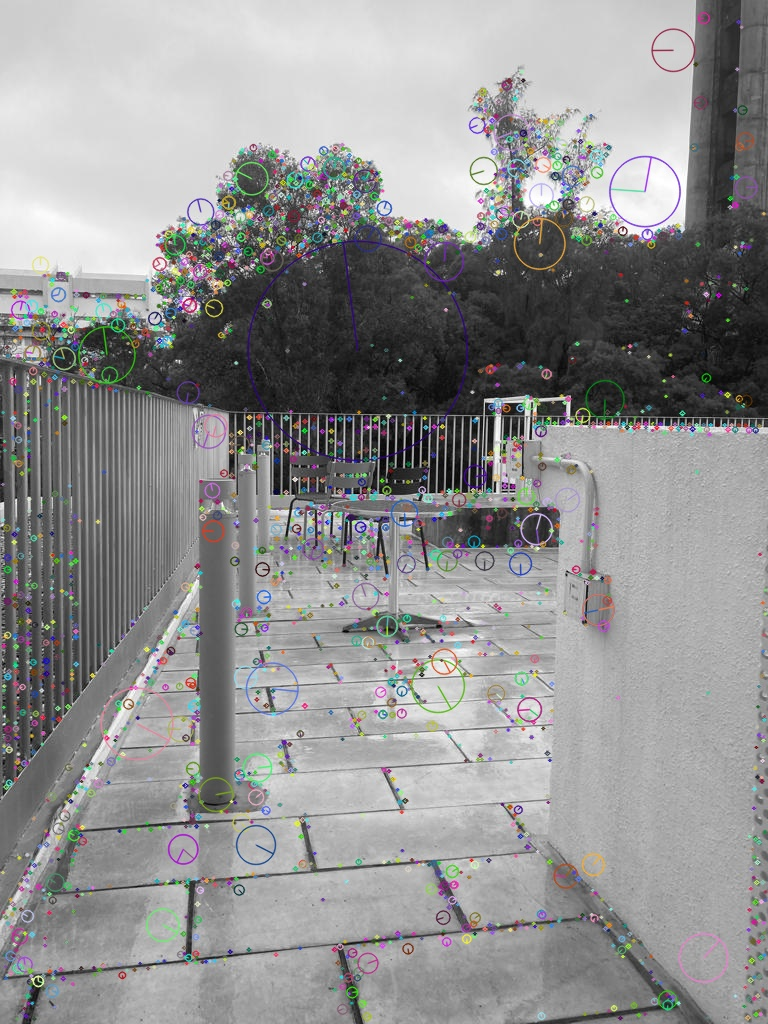
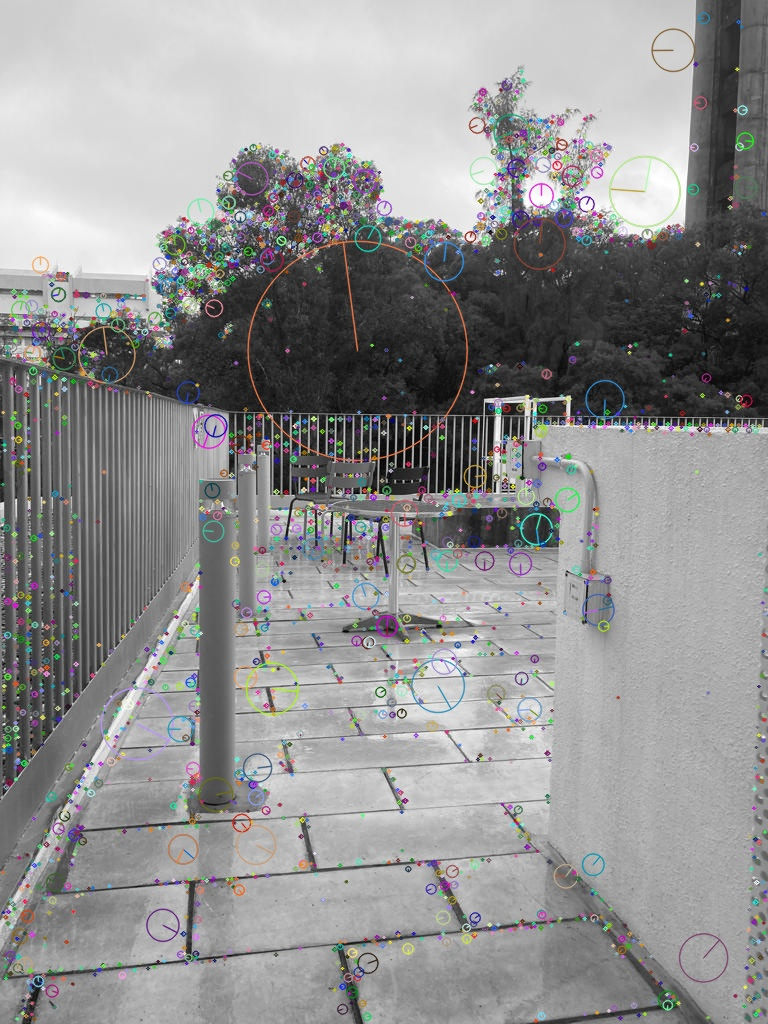
output the stitched image

diff --git a/sift_test.py b/sift_test.py
@@ -4,23 +4,21 @@ from matplotlib import pyplot as plt
 
 MIN_MATCH_COUNT = 10
 
-img1 = cv.imread("middle.jpg", cv.IMREAD_GRAYSCALE)
-img2 = cv.imread("right.jpg", cv.IMREAD_GRAYSCALE)
+#read img
+img1 = cv.imread("right.jpg")
+img1G = cv.cvtColor(img1,cv.COLOR_BGR2GRAY)
+img2 = cv.imread("left.jpg")
+img2G = cv.cvtColor(img2 ,cv.COLOR_BGR2GRAY)
 
+#start sift process
 sift = cv.SIFT_create()
 
-kp1, des1 = sift.detectAndCompute(img1,None)
-kp2, des2 = sift.detectAndCompute(img2,None)
-
-img1 = cv.drawKeypoints(img1, kp1,img1,flags=cv.DRAW_MATCHES_FLAGS_DRAW_RICH_KEYPOINTS)
-img2 = cv.drawKeypoints(img2, kp2,img2,flags=cv.DRAW_MATCHES_FLAGS_DRAW_RICH_KEYPOINTS)
-cv.imwrite('sift_keypoints_middle.jpg',img1)
-cv.imwrite('sift_keypoints_right.jpg',img2)
+kp1, des1 = sift.detectAndCompute(img1G,None)
+kp2, des2 = sift.detectAndCompute(img2G,None)
 
 FLANN_INDEX_KDTREE = 1
 index_params = dict(algorithm = FLANN_INDEX_KDTREE, trees = 5)
 search_params = dict(checks = 50)
-
 
 flann = cv.FlannBasedMatcher(index_params, search_params)
 
@@ -29,25 +27,44 @@ matches = flann.knnMatch(des1,des2,k=2)
 # store all the good matches as per Lowe's ratio test.
 good = []
 for m,n in matches:
- if m.distance < 0.7*n.distance:
-    good.append(m)
+    if m.distance < 0.7*n.distance:
+        good.append(m)
 
 if len(good)>MIN_MATCH_COUNT:
- src_pts = np.float32([ kp1[m.queryIdx].pt for m in good ]).reshape(-1,1,2)
- dst_pts = np.float32([ kp2[m.trainIdx].pt for m in good ]).reshape(-1,1,2)
- M, mask = cv.findHomography(src_pts, dst_pts, cv.RANSAC,5.0)
- matchesMask = mask.ravel().tolist()
- h,w = img1.shape[:-1]
- pts = np.float32([ [0,0],[0,h-1],[w-1,h-1],[w-1,0] ]).reshape(-1,1,2)
- dst = cv.perspectiveTransform(pts,M)
- img2 = cv.polylines(img2,[np.int32(dst)],True,255,3, cv.LINE_AA)
-else:
- print( "Not enough matches are found - {}/{}".format(len(good), MIN_MATCH_COUNT) )
- matchesMask = None
+    src_pts = np.float32([ kp1[m.queryIdx].pt for m in good ]).reshape(-1,1,2)
+    dst_pts = np.float32([ kp2[m.trainIdx].pt for m in good ]).reshape(-1,1,2)
+    M, mask = cv.findHomography(src_pts, dst_pts, cv.RANSAC,5.0)
 
-draw_params = dict(matchColor = (0,255,0), # draw matches in green color
- singlePointColor = None,
- matchesMask = matchesMask, # draw only inliers
- flags = 2)
-img3 = cv.drawMatches(img1,kp1,img2,kp2,good,None,**draw_params)
-plt.imshow(img3, 'gray'),plt.show()
+    
+    matchesMask = mask.ravel().tolist()
+    h,w = img1.shape[:-1]
+    pts = np.float32([ [0,0],[0,h-1],[w-1,h-1],[w-1,0] ]).reshape(-1,1,2)
+
+    #transform shape
+    dst = cv.perspectiveTransform(pts,M)
+    img2G = cv.polylines(img2G,[np.int32(dst)],True,255,3, cv.LINE_AA)
+
+    #draw matched feature point 
+    img1G = cv.drawKeypoints(img1G, kp1,img1G,flags=cv.DRAW_MATCHES_FLAGS_DRAW_RICH_KEYPOINTS)
+    img2G = cv.drawKeypoints(img2G, kp2,img2G,flags=cv.DRAW_MATCHES_FLAGS_DRAW_RICH_KEYPOINTS)
+    cv.imwrite('sift_keypoints_right.jpg',img1G)
+    cv.imwrite('sift_keypoints_left.jpg',img2G)
+    draw_params = dict(matchColor = (0,255,0), # draw matches in green color
+    singlePointColor = None,
+    matchesMask = matchesMask, # draw only inliers
+        flags = 2)
+    img_ransac = cv.drawMatches(img1,kp1,img2,kp2,good,None,**draw_params)
+    cv.imwrite('ransac.jpg', img_ransac)
+
+else:
+  raise AssertionError("Can’t find enough keypoints.")
+
+#output image
+dst = cv.warpPerspective(img1,M,(img2.shape[1] + img1.shape[1], img2.shape[0]))
+plt.subplot(122),plt.imshow(dst),plt.title("Warped Image")
+plt.show()
+plt.figure()
+dst[0:img2.shape[0], 0:img2.shape[1]] = img2
+cv.imwrite("output.jpg",dst)
+plt.imshow(dst), plt.title("output")
+plt.show()
